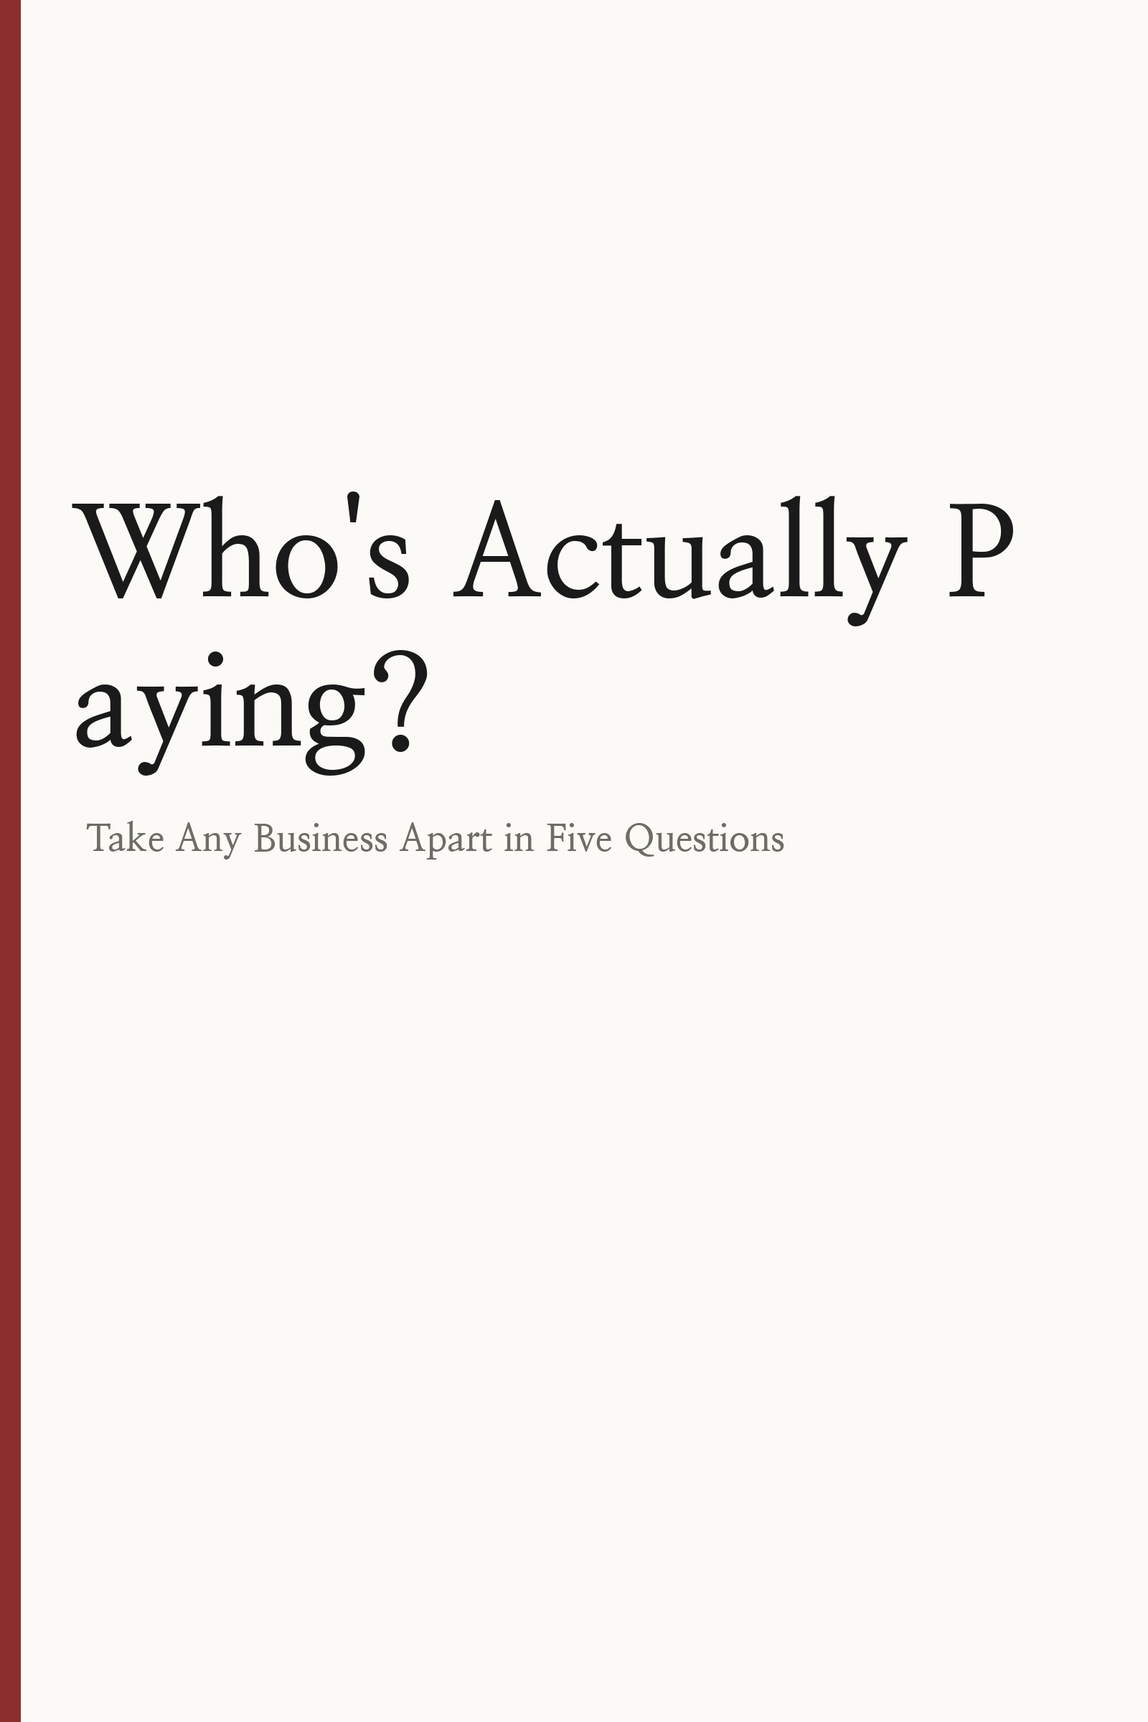
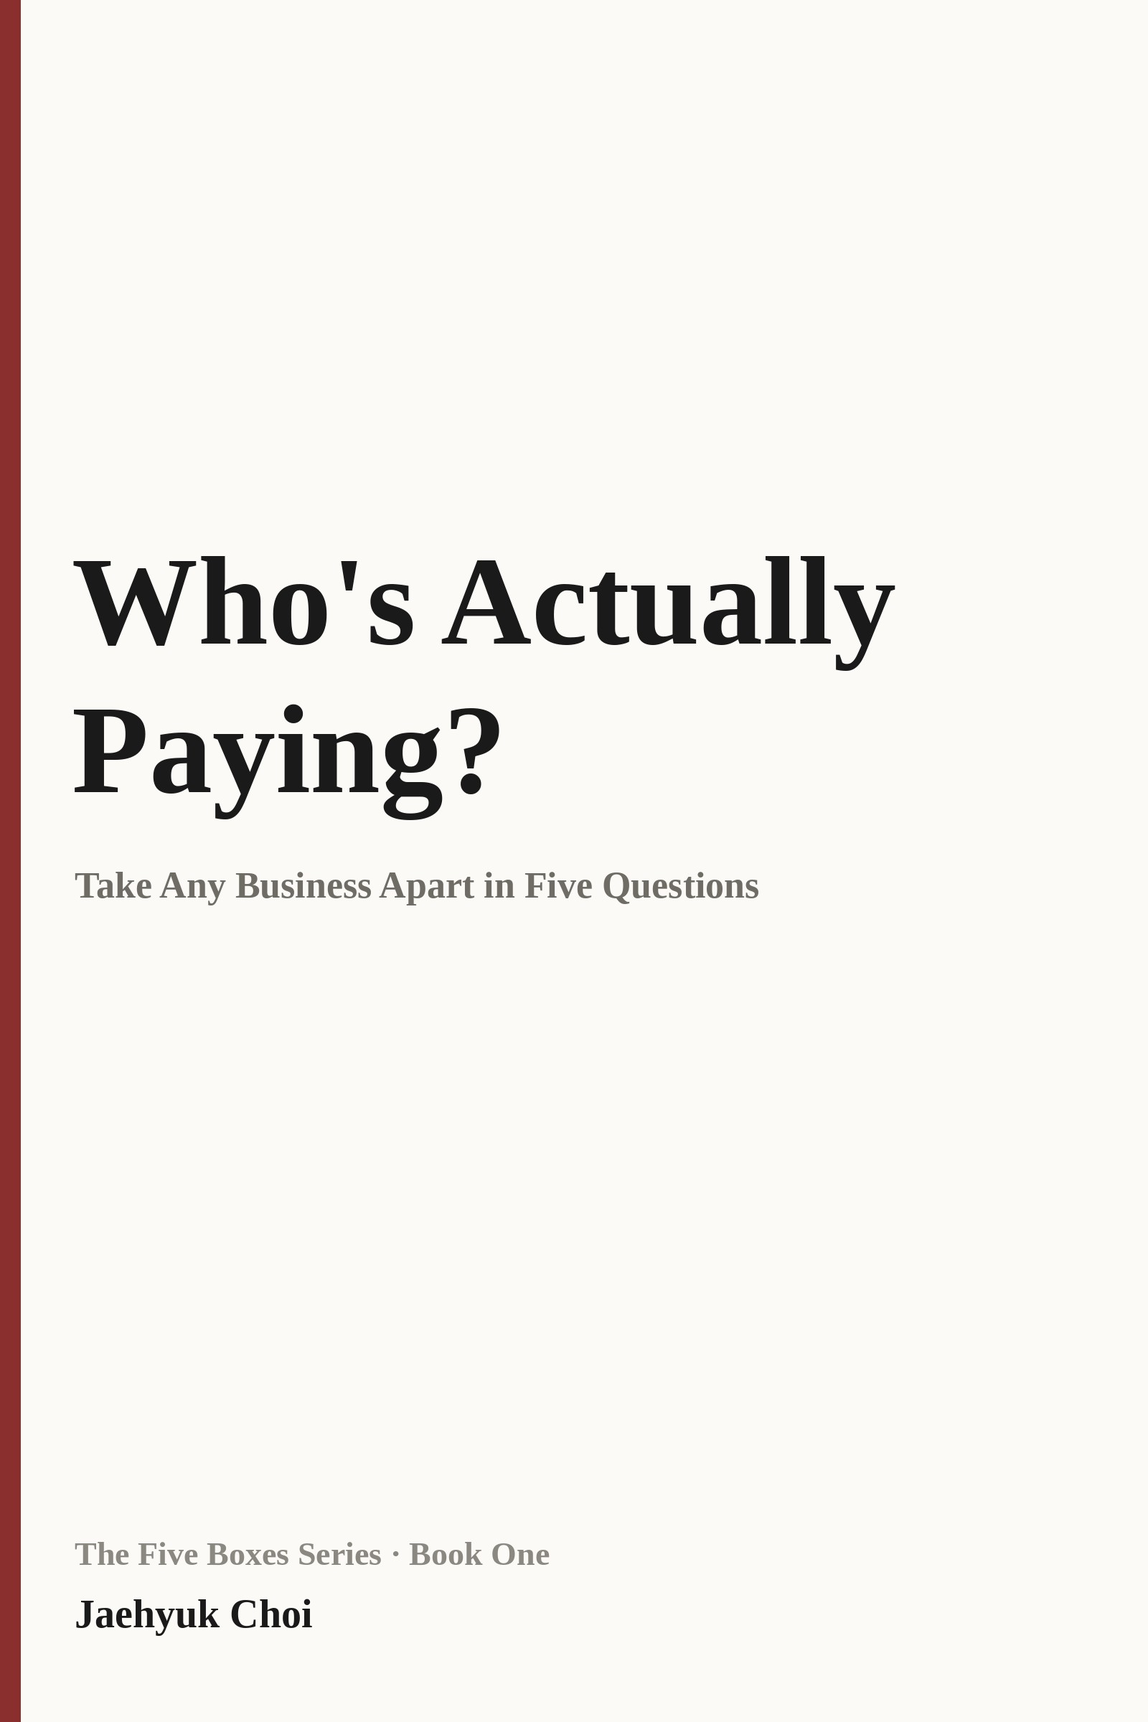
Prepare the four English editions for KDP upload
PDF fixes for KDP print rules:
- page numbers printed 0.21in from the bottom trim edge, under KDP's 0.25in
  minimum. Chromium pins the footer to the bottom of the margin band, so it
  is lifted with padding; they now print at 0.40in
- verified gutter (0.84in minimum, against 0.625in required at 301-500pp),
  trim size and font embedding on all four

Cover generator fixes:
- wrapped per character, which broke English titles mid-word
  ('Who's Actually P / aying?'). Now wraps on word boundaries for English
- uses a Latin serif for English rather than a Korean one, shrinks an
  overlong title to fit four lines, and carries the series line and author
  name at the foot

Adds release/ with the eight upload files under ASCII-safe names, and
KDP-UPLOAD.md/.html with the checklist and what remains account-side.

Korean editions are deliberately not rebuilt; their released files are
unchanged.

Claude-Session: https://claude.ai/code/session_01MUgqiyz8UZfaxXbyWGHTUz

diff --git a/KDP-UPLOAD.html b/KDP-UPLOAD.html
@@ -1,0 +1,59 @@
+<!doctype html><html lang="en"><head><meta charset="utf-8"><meta name="viewport" content="width=device-width,initial-scale=1"><title>Amazon KDP — Upload Set and Checklist</title><style>
+:root{--ink:#1a1a1a;--muted:#666;--rule:#e2e2e2;--accent:#E85D2F;--bg:#fdfdfc;--card:#fff}
+@media (prefers-color-scheme:dark){:root{--ink:#e8e6e3;--muted:#9a9a9a;--rule:#333;--accent:#f0a080;--bg:#16181a;--card:#1d2022}}
+*{box-sizing:border-box}
+body{margin:0;background:var(--bg);color:var(--ink);
+ font-family:"Nanum Barun Gothic","Apple SD Gothic Neo","Malgun Gothic",system-ui,sans-serif;
+ line-height:1.75;font-size:16px}
+.wrap{max-width:800px;margin:0 auto;padding:48px 24px 96px}
+h1{font-size:1.9rem;line-height:1.3;margin:2.4em 0 .6em;padding-bottom:.3em;border-bottom:2px solid var(--accent)}
+h1:first-of-type{margin-top:0}
+h2{font-size:1.25rem;margin:2em 0 .5em;color:var(--accent)}
+h3{font-size:1.05rem;margin:1.6em 0 .4em}
+p{margin:.8em 0}
+blockquote{margin:1.2em 0;padding:.8em 1.2em;border-left:3px solid var(--accent);
+ background:var(--card);border-radius:0 6px 6px 0;color:var(--muted)}
+blockquote strong{color:var(--ink)}
+table{border-collapse:collapse;width:100%;margin:1.2em 0;font-size:.94rem;display:block;overflow-x:auto}
+th,td{border:1px solid var(--rule);padding:.5em .7em;text-align:left;vertical-align:top}
+th{background:var(--card);font-weight:700}
+pre{background:var(--card);border:1px solid var(--rule);border-radius:6px;
+ padding:1em 1.2em;overflow-x:auto;font-size:.9rem;line-height:1.7;
+ font-family:"Nanum Barun Gothic","Apple SD Gothic Neo",monospace;white-space:pre-wrap}
+code{background:var(--card);padding:.1em .35em;border-radius:3px;font-size:.9em}
+pre code{background:none;padding:0}
+ul,ol{padding-left:1.3em} li{margin:.35em 0}
+hr{border:0;border-top:1px solid var(--rule);margin:2.5em 0}
+.meta{color:var(--muted);font-size:.9rem;margin-bottom:2.5em}
+</style></head><body><div class="wrap">
+<h1>The eight files</h1>
+<p>All in <code>release/</code>, with ASCII-safe filenames (three of the four titles contain <code>?</code>, which Windows rejects in a filename — the title inside each file is unaffected).</p>
+<div class="table-wrap"><table><thead><tr><th>#</th><th>Book</th><th>EPUB</th><th>PDF</th><th>Pages</th></tr></thead><tbody><tr><td>01</td><td>Who's Actually Paying?</td><td>428 KB</td><td>693 KB</td><td>366</td></tr><tr><td>02</td><td>The Fourth Box</td><td>393 KB</td><td>703 KB</td><td>358</td></tr><tr><td>03</td><td>It's Free. So How Are They Rich?</td><td>243 KB</td><td>283 KB</td><td>115</td></tr><tr><td>04</td><td>I Started. So Why Isn't It Working?</td><td>297 KB</td><td>439 KB</td><td>185</td></tr></tbody></table></div>
+<p><strong>EPUB → Kindle ebook. PDF → paperback interior.</strong></p>
+<p>That split matters. KDP will accept a PDF for an ebook, and it reflows badly on a Kindle. Upload the EPUB for the ebook every time.</p>
+<hr>
+<h1>What was checked</h1>
+<h2>EPUB — all four pass</h2>
+<div class="table-wrap"><table><thead><tr><th>Check</th><th>Result</th></tr></thead><tbody><tr><td>epubcheck 5.1.0</td><td><strong>0 fatals / 0 errors / 0 warnings</strong></td></tr><tr><td><code>dc:language</code></td><td><code>en</code> — not inherited from the Korean edition</td></tr><tr><td><code>dc:creator</code></td><td>Jaehyuk Choi</td></tr><tr><td><code>dc:identifier</code></td><td>Stable UUID, derived from the title, so a revision stays the same book</td></tr><tr><td>Navigation</td><td>EPUB3 <code>nav</code> <strong>and</strong> EPUB2 <code>toc.ncx</code>, for older Kindle pipelines</td></tr><tr><td>Cover</td><td>1600×2400, declared <code>cover-image</code>, first item in the spine</td></tr><tr><td>Series metadata</td><td><code>belongs-to-collection</code> with position 1 / 2</td></tr></tbody></table></div>
+<h2>PDF — all four meet KDP's print rules</h2>
+<p>The 6×9 inch trim is KDP's standard paperback size, so no trim conversion is needed at upload.</p>
+<div class="table-wrap"><table><thead><tr><th>Check</th><th>Requirement</th><th>Result</th></tr></thead><tbody><tr><td>Trim size</td><td>6 × 9 in</td><td><strong>6 × 9 in</strong></td></tr><tr><td>Inside (gutter) margin</td><td>0.625 in at 301–500 pp, 0.5 in at 151–300, 0.375 in at 24–150</td><td><strong>0.84 in minimum on every book</strong></td></tr><tr><td>All content from trim edge</td><td>≥ 0.25 in</td><td><strong>0.40 in minimum</strong></td></tr><tr><td>Fonts</td><td>embedded</td><td><strong>all embedded subsets</strong></td></tr><tr><td>Table of contents</td><td>page numbers matching final pagination</td><td><strong>converged</strong></td></tr></tbody></table></div>
+<p>Two things were fixed to get there.</p>
+<p><strong>Page numbers sat 0.21 in from the bottom trim edge</strong> — under KDP's 0.25 in minimum, which is a rejection at preflight. Chromium pins the footer to the very bottom of the margin band, so it's now lifted with padding. They print at 0.40 in.</p>
+<p><strong>Cover titles were breaking mid-word</strong> — "Who's Actually P / aying?". The cover generator wrapped per character, which is right for Korean and wrong for English. It now wraps on word boundaries for English, uses a Latin serif rather than a Korean one, and carries the series line and the author name at the foot.</p>
+<hr>
+<h1>What KDP still needs from you</h1>
+<p>The files are complete. Three things are account-side and can't be produced here.</p>
+<p><strong>1. A cover for each book.</strong></p>
+<p>The cover inside each EPUB is a working placeholder — title, subtitle, series, author, on a colour band. It's legitimate and it will pass review, and it isn't a cover that sells anything on a thumbnail-sized shelf.</p>
+<ul><li><strong>Ebook:</strong> upload a JPG or TIFF separately. KDP's ideal is 2560 × 1600 (1.6:1); the placeholders are 1600 × 2400 (1.5:1), inside the accepted range but not ideal.</li><li><strong>Paperback:</strong> KDP needs a single PDF wrapping front, spine and back. Spine width depends on page count and paper stock, so use KDP's cover template generator with the page counts in the table above.</li></ul>
+<p><strong>2. Categories, keywords and description.</strong></p>
+<p>The Korean book descriptions won't translate straight across — the shelves differ. Both adult books belong in Business &amp; Money → Economics or Entrepreneurship; both teen books in Teen &amp; Young Adult → Education &amp; Reference → Careers, or Business &amp; Economics.</p>
+<p><strong>3. Check the titles on Amazon before listing.</strong></p>
+<p><em>Anatomy of Money</em> was a crowded shelf, which is why these four titles are questions instead. That check was done from search results, not from Amazon directly — this environment can't reach it. Worth five minutes in a browser before you commit the titles.</p>
+<hr>
+<h1>Two things to know about the source</h1>
+<p><strong>The Korean editions were not rebuilt.</strong> The typesetting fixes here — table width, code-block wrapping, footer position, cover wrapping — apply to the whole toolchain, and the Korean books were never affected by the first two and would only change cosmetically under the rest.</p>
+<p>Their released files are byte-identical to what you already have. If you do rebuild them, rebuild all four together so their pagination stays consistent with each other.</p>
+<p><strong>Both adult books state their own verification limits in the colophon.</strong> Fact-checking was cross-referencing published reporting, not opening filings one by one. That's written plainly in <em>How This Book Was Made</em> in both books. It's honest, and it's the thing to strengthen first if you revise.</p>
+</div></body></html>

diff --git a/en-teen/site/index.html b/en-teen/site/index.html
@@ -89,7 +89,9 @@ footer.book{border-top:1px solid var(--rule);padding-top:28px;color:var(--muted)
     긴 낱말은 줄바꿈해서 표가 폭 안에 들어오게 한다. */
  .tblwrap{overflow-x:visible}
  table{table-layout:fixed;width:100%}
- th,td{overflow-wrap:break-word;word-break:normal;hyphens:auto}}
+ th,td{overflow-wrap:break-word;word-break:normal;hyphens:auto}
+ /* 코드 블록의 긴 줄도 같은 이유로 접어 준다. */
+ pre{white-space:pre-wrap;overflow-wrap:break-word}}
 </style>
 </head><body><div class="wrap">
 <header class="titlepage"><p class="series">The Five Boxes Series · Teen Edition, Book One</p><h1>It&#x27;s Free. So How Are They Rich?</h1><p>How Money Actually Works — and How to Start</p><div class="rule"></div></header>

diff --git a/en-teen/site/index.print.html b/en-teen/site/index.print.html
@@ -89,7 +89,9 @@ footer.book{border-top:1px solid var(--rule);padding-top:28px;color:var(--muted)
     긴 낱말은 줄바꿈해서 표가 폭 안에 들어오게 한다. */
  .tblwrap{overflow-x:visible}
  table{table-layout:fixed;width:100%}
- th,td{overflow-wrap:break-word;word-break:normal;hyphens:auto}}
+ th,td{overflow-wrap:break-word;word-break:normal;hyphens:auto}
+ /* 코드 블록의 긴 줄도 같은 이유로 접어 준다. */
+ pre{white-space:pre-wrap;overflow-wrap:break-word}}
 </style>
 </head><body><div class="wrap">
 <header class="titlepage"><p class="series">The Five Boxes Series · Teen Edition, Book One</p><h1>It&#x27;s Free. So How Are They Rich?</h1><p>How Money Actually Works — and How to Start</p><div class="rule"></div></header>

diff --git a/en-book/site/index.html b/en-book/site/index.html
@@ -89,7 +89,9 @@ footer.book{border-top:1px solid var(--rule);padding-top:28px;color:var(--muted)
     긴 낱말은 줄바꿈해서 표가 폭 안에 들어오게 한다. */
  .tblwrap{overflow-x:visible}
  table{table-layout:fixed;width:100%}
- th,td{overflow-wrap:break-word;word-break:normal;hyphens:auto}}
+ th,td{overflow-wrap:break-word;word-break:normal;hyphens:auto}
+ /* 코드 블록의 긴 줄도 같은 이유로 접어 준다. */
+ pre{white-space:pre-wrap;overflow-wrap:break-word}}
 </style>
 </head><body><div class="wrap">
 <header class="titlepage"><p class="series">The Five Boxes Series · Book One</p><h1>Who&#x27;s Actually Paying?</h1><p>Take Any Business Apart in Five Questions</p><div class="rule"></div></header>

diff --git a/en-book/site/index.print.html b/en-book/site/index.print.html
@@ -89,7 +89,9 @@ footer.book{border-top:1px solid var(--rule);padding-top:28px;color:var(--muted)
     긴 낱말은 줄바꿈해서 표가 폭 안에 들어오게 한다. */
  .tblwrap{overflow-x:visible}
  table{table-layout:fixed;width:100%}
- th,td{overflow-wrap:break-word;word-break:normal;hyphens:auto}}
+ th,td{overflow-wrap:break-word;word-break:normal;hyphens:auto}
+ /* 코드 블록의 긴 줄도 같은 이유로 접어 준다. */
+ pre{white-space:pre-wrap;overflow-wrap:break-word}}
 </style>
 </head><body><div class="wrap">
 <header class="titlepage"><p class="series">The Five Boxes Series · Book One</p><h1>Who&#x27;s Actually Paying?</h1><p>Take Any Business Apart in Five Questions</p><div class="rule"></div></header>

diff --git a/tools/epub.py b/tools/epub.py
@@ -167,7 +167,7 @@ def kind_of(item):
         item["kind"], "bodymatter")
 
 
-def make_cover(out_dir, title, subtitle, accent):
+def make_cover(out_dir, title, subtitle, accent, lang="ko", author="", series=""):
     """Pillow 가 있으면 간단한 표지를, 없으면 건너뛴다. 없어도 등록엔 지장 없다."""
     try:
         from PIL import Image, ImageDraw, ImageFont
@@ -178,13 +178,16 @@ def make_cover(out_dir, title, subtitle, accent):
     draw = ImageDraw.Draw(img)
     draw.rectangle([0, 0, 28, h], fill=accent)
 
-    def font(size, bold=True):
-        for path in (
-            "/usr/share/fonts/truetype/nanum/NanumMyeongjoBold.ttf",
-            "/usr/share/fonts/opentype/noto/NotoSerifCJK-Bold.ttc",
-            "/usr/share/fonts/truetype/nanum/NanumGothicBold.ttf",
-            "/usr/share/fonts/truetype/nanum/NanumGothic.ttf",
-        ):
+    # 한글 제목은 명조로, 영문 제목은 라틴 세리프로 짠다.
+    KO = ("/usr/share/fonts/truetype/nanum/NanumMyeongjoBold.ttf",
+          "/usr/share/fonts/opentype/noto/NotoSerifCJK-Bold.ttc",
+          "/usr/share/fonts/truetype/nanum/NanumGothicBold.ttf",
+          "/usr/share/fonts/truetype/nanum/NanumGothic.ttf")
+    EN = ("/usr/share/fonts/truetype/liberation/LiberationSerif-Bold.ttf",
+          "/usr/share/fonts/truetype/dejavu/DejaVuSerif-Bold.ttf") + KO
+
+    def font(size, faces=None):
+        for path in (faces or (EN if lang == "en" else KO)):
             if os.path.exists(path):
                 try:
                     return ImageFont.truetype(path, size)
@@ -193,29 +196,55 @@ def make_cover(out_dir, title, subtitle, accent):
         return ImageFont.load_default()
 
     def wrap(text, fnt, limit):
+        """영문은 낱말 단위로 접는다. 글자 단위로 접으면 낱말이 잘린다."""
+        if " " not in text.strip():
+            units, join = list(text), ""
+        else:
+            units, join = text.split(" "), " "
         lines, line = [], ""
-        for ch in text:
-            trial = line + ch
+        for unit in units:
+            trial = (line + join + unit) if line else unit
             if draw.textlength(trial, font=fnt) > limit and line:
                 lines.append(line)
-                line = ch
+                line = unit
             else:
                 line = trial
         if line:
             lines.append(line)
         return lines
 
-    title_font = font(176)
+    # 제목이 길면 글자 크기를 줄여 넉 줄 안에 넣는다.
+    size, title_font, lines = 176, None, None
+    while size >= 96:
+        title_font = font(size)
+        lines = wrap(title, title_font, w - 200)
+        if len(lines) <= 4:
+            break
+        size -= 16
     sub_font = font(52)
-    lines = wrap(title, title_font, w - 200)
-    y = h * 0.28
+    sub_lines = wrap(subtitle, sub_font, w - 240) if subtitle else []
+
+    # 제목 덩어리를 위쪽 삼분의 일에 앉히되 줄 수에 따라 균형을 잡는다.
+    step = int(size * 1.18)
+    block = len(lines) * step + (50 + len(sub_lines) * 72 if sub_lines else 0)
+    y = max(h * 0.20, h * 0.42 - block / 2)
     for line in lines:
         draw.text((100, y), line, font=title_font, fill="#1A1A1A")
-        y += 208
-    y += 50
-    for line in wrap(subtitle, sub_font, w - 240):
-        draw.text((120, y), line, font=sub_font, fill="#6E6C64")
-        y += 72
+        y += step
+    if sub_lines:
+        y += 50
+        for line in sub_lines:
+            draw.text((104, y), line, font=sub_font, fill="#6E6C64")
+            y += 72
+
+    # 아래쪽에 시리즈와 지은이. 표지에 지은이가 없으면 미완성으로 보인다.
+    foot = font(46)
+    fy = h - 260
+    if series:
+        draw.text((104, fy), series, font=foot, fill="#8A8880")
+        fy += 78
+    if author:
+        draw.text((104, fy), author, font=font(56), fill="#1A1A1A")
 
     path = os.path.join(out_dir, "cover.jpg")
     img.convert("RGB").save(path, quality=90)
@@ -311,7 +340,10 @@ def build(which):
                 '<content src="text/%s.xhtml"/></navPoint>' % (play_order, play_order, html.escape(label), fid))
             play_order += 1
 
-    cover_path = make_cover(out_dir, m.TITLE, m.SUBTITLE, accent)
+    cover_path = make_cover(out_dir, m.TITLE, m.SUBTITLE, accent,
+                            getattr(m, "LANG", "ko"),
+                            getattr(m, "AUTHOR", ""),
+                            getattr(m, "SERIES", ""))
     cover_meta = '\n    <meta name="cover" content="cover-image"/>' if cover_path else ""
     cover_item = ('\n    <item id="cover-image" href="images/cover.jpg" media-type="image/jpeg" properties="cover-image"/>'
                   if cover_path else "")

diff --git a/tools/pdf.py b/tools/pdf.py
@@ -74,9 +74,12 @@ def render_pdf(html_path, pdf_path, trim="A5"):
             print_background=True,
             display_header_footer=True,
             header_template="<span></span>",
+            # KDP 는 재단선에서 0.25in 안쪽에 모든 내용이 들어와야 한다.
+            # 크로뮴은 쪽 번호를 아래 여백 맨 끝에 붙여 0.21in 이 되므로
+            # 아래쪽 패딩으로 들어 올린다.
             footer_template=(
                 '<div style="width:100%;text-align:center;font-size:8px;'
-                'color:#999;font-family:sans-serif;">'
+                'color:#999;font-family:sans-serif;padding-bottom:18px;">'
                 '<span class="pageNumber"></span></div>'),
         )
         browser.close()

diff --git a/KDP-UPLOAD.md b/KDP-UPLOAD.md
@@ -1,0 +1,115 @@
+---
+title: Amazon KDP — Upload Set and Checklist
+date: 2026-09-09
+---
+
+# The eight files
+
+All in `release/`, with ASCII-safe filenames (three of the four titles contain
+`?`, which Windows rejects in a filename — the title inside each file is
+unaffected).
+
+| # | Book | EPUB | PDF | Pages |
+|---|---|---|---|---|
+| 01 | Who's Actually Paying? | 428 KB | 693 KB | 366 |
+| 02 | The Fourth Box | 393 KB | 703 KB | 358 |
+| 03 | It's Free. So How Are They Rich? | 243 KB | 283 KB | 115 |
+| 04 | I Started. So Why Isn't It Working? | 297 KB | 439 KB | 185 |
+
+**EPUB → Kindle ebook. PDF → paperback interior.**
+
+That split matters. KDP will accept a PDF for an ebook, and it reflows badly on
+a Kindle. Upload the EPUB for the ebook every time.
+
+---
+
+# What was checked
+
+## EPUB — all four pass
+
+| Check | Result |
+|---|---|
+| epubcheck 5.1.0 | **0 fatals / 0 errors / 0 warnings** |
+| `dc:language` | `en` — not inherited from the Korean edition |
+| `dc:creator` | Jaehyuk Choi |
+| `dc:identifier` | Stable UUID, derived from the title, so a revision stays the same book |
+| Navigation | EPUB3 `nav` **and** EPUB2 `toc.ncx`, for older Kindle pipelines |
+| Cover | 1600×2400, declared `cover-image`, first item in the spine |
+| Series metadata | `belongs-to-collection` with position 1 / 2 |
+
+## PDF — all four meet KDP's print rules
+
+The 6×9 inch trim is KDP's standard paperback size, so no trim conversion is
+needed at upload.
+
+| Check | Requirement | Result |
+|---|---|---|
+| Trim size | 6 × 9 in | **6 × 9 in** |
+| Inside (gutter) margin | 0.625 in at 301–500 pp, 0.5 in at 151–300, 0.375 in at 24–150 | **0.84 in minimum on every book** |
+| All content from trim edge | ≥ 0.25 in | **0.40 in minimum** |
+| Fonts | embedded | **all embedded subsets** |
+| Table of contents | page numbers matching final pagination | **converged** |
+
+Two things were fixed to get there.
+
+**Page numbers sat 0.21 in from the bottom trim edge** — under KDP's 0.25 in
+minimum, which is a rejection at preflight. Chromium pins the footer to the
+very bottom of the margin band, so it's now lifted with padding. They print at
+0.40 in.
+
+**Cover titles were breaking mid-word** — "Who's Actually P / aying?". The
+cover generator wrapped per character, which is right for Korean and wrong for
+English. It now wraps on word boundaries for English, uses a Latin serif rather
+than a Korean one, and carries the series line and the author name at the foot.
+
+---
+
+# What KDP still needs from you
+
+The files are complete. Three things are account-side and can't be produced
+here.
+
+**1. A cover for each book.**
+
+The cover inside each EPUB is a working placeholder — title, subtitle, series,
+author, on a colour band. It's legitimate and it will pass review, and it isn't
+a cover that sells anything on a thumbnail-sized shelf.
+
+- **Ebook:** upload a JPG or TIFF separately. KDP's ideal is 2560 × 1600
+  (1.6:1); the placeholders are 1600 × 2400 (1.5:1), inside the accepted range
+  but not ideal.
+- **Paperback:** KDP needs a single PDF wrapping front, spine and back. Spine
+  width depends on page count and paper stock, so use KDP's cover template
+  generator with the page counts in the table above.
+
+**2. Categories, keywords and description.**
+
+The Korean book descriptions won't translate straight across — the shelves
+differ. Both adult books belong in Business & Money → Economics or
+Entrepreneurship; both teen books in Teen & Young Adult → Education & Reference
+→ Careers, or Business & Economics.
+
+**3. Check the titles on Amazon before listing.**
+
+*Anatomy of Money* was a crowded shelf, which is why these four titles are
+questions instead. That check was done from search results, not from Amazon
+directly — this environment can't reach it. Worth five minutes in a browser
+before you commit the titles.
+
+---
+
+# Two things to know about the source
+
+**The Korean editions were not rebuilt.** The typesetting fixes here — table
+width, code-block wrapping, footer position, cover wrapping — apply to the
+whole toolchain, and the Korean books were never affected by the first two and
+would only change cosmetically under the rest.
+
+Their released files are byte-identical to what you already have. If you do
+rebuild them, rebuild all four together so their pagination stays consistent
+with each other.
+
+**Both adult books state their own verification limits in the colophon.**
+Fact-checking was cross-referencing published reporting, not opening filings
+one by one. That's written plainly in *How This Book Was Made* in both books.
+It's honest, and it's the thing to strengthen first if you revise.
